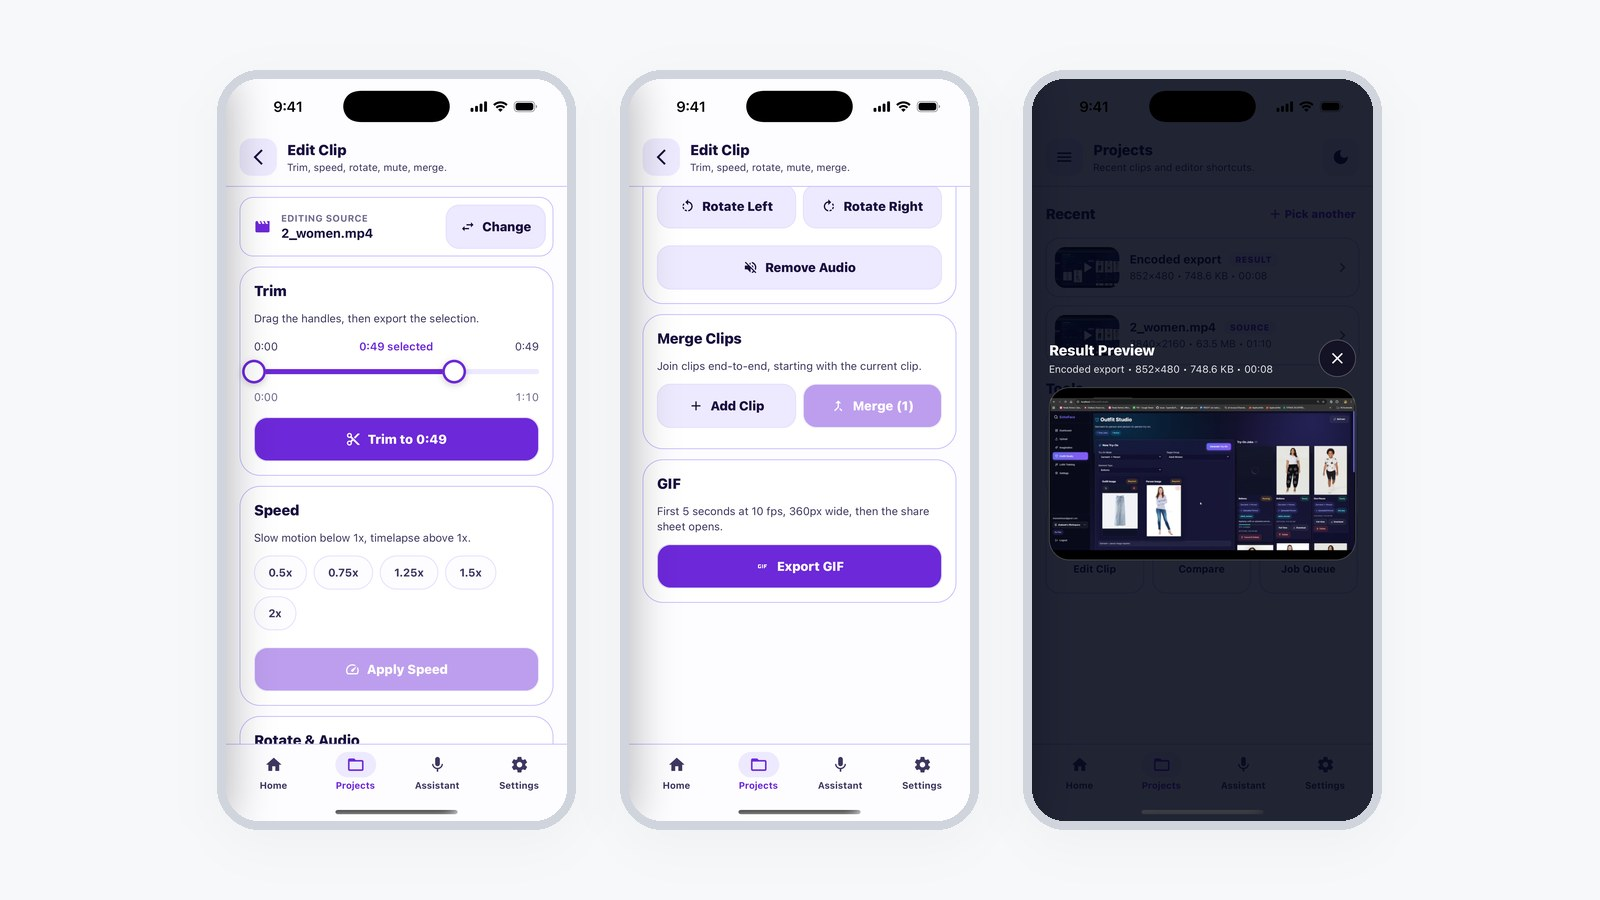
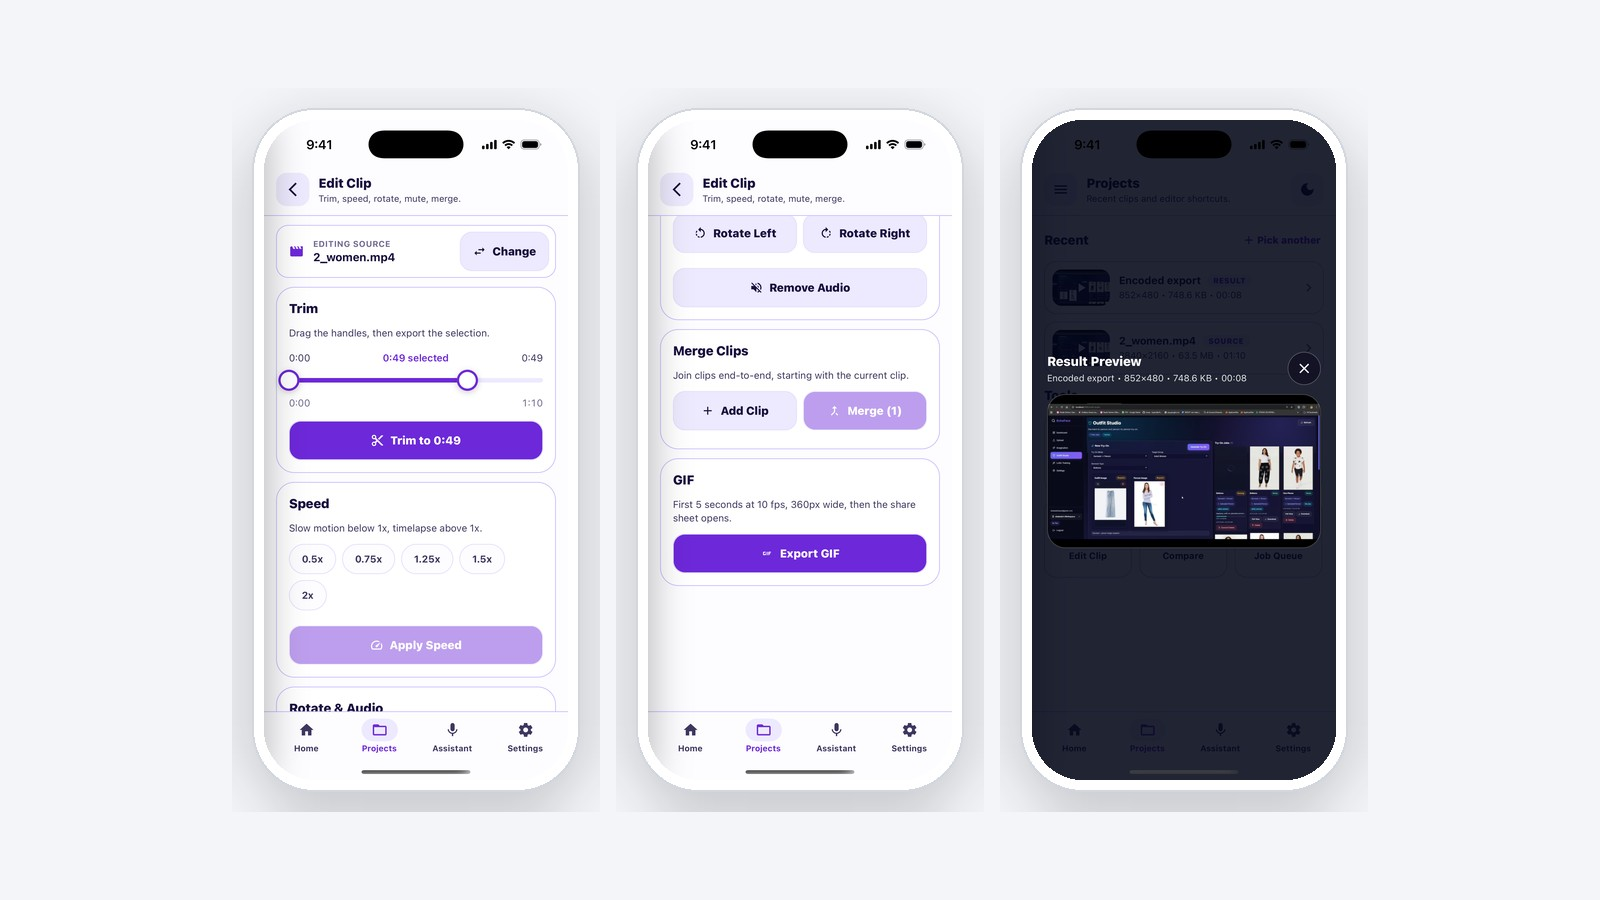
Replace video pipeline case study placeholder with real app screenshots
Swaps the generated SVG for screenshots of the shipped app and adds the
measured export figures the app reports itself, plus sections on the
interface and the platform limits that are documented in the module.

Changed region(s): [[0.125, 0.0622, 0.875, 0.9333]]

diff --git a/case-studies/on-device-video-compression-mobile-pipeline/index.html b/case-studies/on-device-video-compression-mobile-pipeline/index.html
@@ -10,7 +10,7 @@
   <meta property="og:description" content="Case study: a reusable React Native native module that compresses, trims, merges and edits video entirely on the phone across iOS and Android, with bitrate-accurate encoding and a documented platform-limitation matrix.">
   <meta property="og:type" content="article">
   <meta property="og:url" content="https://shabeeb.baydot.net/case-studies/on-device-video-compression-mobile-pipeline/">
-  <meta property="og:image" content="https://shabeeb.baydot.net/assets/imgs/generated/case-studies/on-device-video-compression-mobile-pipeline.svg">
+  <meta property="og:image" content="https://shabeeb.baydot.net/assets/imgs/case-studies/clip-studio/clip-studio-hero.jpg">
   <meta name="twitter:card" content="summary_large_image">
   <link rel="stylesheet" href="/assets/css/johndoe.css">
   <link rel="stylesheet" href="/assets/css/portfolio-refresh.css">
@@ -24,7 +24,7 @@
       "author": { "@type": "Person", "name": "Shabeeb Hasan", "url": "https://shabeeb.baydot.net/" },
       "publisher": { "@type": "Organization", "name": "Baydot", "url": "https://baydot.net/" },
       "mainEntityOfPage": "https://shabeeb.baydot.net/case-studies/on-device-video-compression-mobile-pipeline/",
-      "image": "https://shabeeb.baydot.net/assets/imgs/generated/case-studies/on-device-video-compression-mobile-pipeline.svg"
+      "image": "https://shabeeb.baydot.net/assets/imgs/case-studies/clip-studio/clip-studio-hero.jpg"
     }
   </script>
   <!-- Microsoft Clarity -->
@@ -46,7 +46,7 @@
     <a href="/case-studies/" class="back-link">Back to Case Studies</a>
     <h1 class="content-title">On-Device Video Compression Pipeline</h1>
     <p class="content-excerpt">Compressing video on the phone means no upload, no server bill, and no privacy conversation. It also means writing the pipeline twice, in Swift and Kotlin, behind one honest JavaScript API.</p>
-    <img src="/assets/imgs/generated/case-studies/on-device-video-compression-mobile-pipeline.svg" alt="On-Device Video Compression Pipeline" class="hero-image" width="1600" height="900">
+    <img src="/assets/imgs/case-studies/clip-studio/clip-studio-hero.jpg" alt="Baydot Clip Studio: dashboard, export result and export settings on iPhone" class="hero-image" width="1600" height="900">
     <div class="tag-row"><span>react native</span><span>native modules</span><span>video encoding</span><span>swift / kotlin</span><span>on-device processing</span></div>
     <article class="content-article">
       <h2>The Brief</h2>
@@ -61,18 +61,38 @@
         <li><strong>Text overlay</strong> with nine anchor positions, source and output metadata, native permission handling, and save-to-gallery on both platforms.</li>
       </ul>
 
+      <h2>What It Measures on a Real Export</h2>
+      <p>The app reports its own before-and-after, so the numbers below are readings rather than estimates. A 1.8&nbsp;MB
+      720p clip taken down to 480p HEVC lands at 748.6&nbsp;KB — and a 63.5&nbsp;MB 4K source is handled on the handset
+      without a server anywhere in the path.</p>
+      <img src="/assets/imgs/case-studies/clip-studio/clip-studio-export-flow.jpg" alt="Export settings with live size estimate, encoding progress with cancel, and the finished export reporting 59% size reduction" class="hero-image" width="1600" height="900" loading="lazy">
+      <p>Before the encode starts, a live estimate does the bitrate arithmetic; during it, progress is visible and
+      cancellable; after it, the result states exactly what changed. Codec choice is exposed rather than hidden —
+      HEVC for size, H.264 for compatibility, or the platform default.</p>
+
       <h2>Editing Without Re-Encoding</h2>
       <p>Trim, rotate, mute, merge and speed changes are all implemented as remux operations rather than re-encodes: the compressed streams are copied into a new container with adjusted timing or orientation metadata. The result is effectively instant and lossless, where a naive re-encode would cost minutes of battery and a generation of quality.</p>
       <div class="metric-grid">
-        <div class="metric"><strong>2 platforms</strong><span>iOS and Android behind one typed API</span></div>
-        <div class="metric"><strong>0</strong><span>Server cost, upload time, and files leaving the device</span></div>
-        <div class="metric"><strong>23</strong><span>Unit tests covering the compression surface</span></div>
-        <div class="metric"><strong>Remux</strong><span>Trim, merge, rotate and speed with no re-encode</span></div>
+        <div class="metric"><strong>59% smaller</strong><span>1.8 MB to 748.6 KB, measured on device</span></div>
+        <div class="metric"><strong>3840 &times; 2160</strong><span>4K source handled with no server in the path</span></div>
+        <div class="metric"><strong>0</strong><span>Server cost, upload time, and files leaving the phone</span></div>
+        <div class="metric"><strong>Remux</strong><span>Trim, rotate and mute with no re-encode</span></div>
       </div>
+      <img src="/assets/imgs/case-studies/clip-studio/clip-studio-editing.jpg" alt="Trim handles with live selection, rotate and merge tools with GIF export, and the preview player" class="hero-image" width="1600" height="900" loading="lazy">
 
       <h2>The Part Most Modules Skip: Documenting the Edges</h2>
-      <p>Cross-platform media work is full of asymmetries, and the failure mode is a module that pretends they do not exist until an app ships a bug. This one ships a platform support matrix instead: which calls behave identically, which differ, and exactly where. Text overlay sizing behaves differently on one encoder. Merging on Android requires matching codec and resolution. A speed change preserves audio on one platform and not the other. Every one of those is written down next to the API that has the limitation.</p>
+      <p>Cross-platform media work is full of asymmetries, and the failure mode is a module that pretends they do not exist until an app ships a bug. This one ships a platform support matrix instead: which calls behave identically, which differ, and exactly where. Text overlay sizing behaves differently on one encoder. Merging on Android requires matching codec and resolution. A speed change preserves audio on one platform and not the other. Every one of those is written down next to the API that has the limitation. GIF export is the sharpest example: iOS hands frames to ImageIO in a few lines, while Android has no equivalent at all, so that platform carries a hand-written GIF89a encoder — palette quantiser, LZW compressor and writer — to produce the same output.</p>
       <div class="cs-note"><p>A documented limitation is a feature. An undocumented one is a support ticket in three months, filed by someone who trusted the API signature.</p></div>
+
+      <h2>The Interface Around It</h2>
+      <p>Two complete themes built from one token set — designed, not inverted — with a shared component layer for
+      cards, chrome and controls. Every colour that sits on top of video comes from a dedicated on-media palette, so
+      captions stay legible over any frame. Preview posters use real decoded frames rather than placeholder art.</p>
+      <img src="/assets/imgs/case-studies/clip-studio/clip-studio-themes.jpg" alt="The same screens in light and dark themes" class="hero-image" width="1600" height="900" loading="lazy">
+      <p>Finished exports persist for seven days and survive a restart, with entries dropped automatically once their
+      file leaves the cache. An offline command surface accepts typed or spoken instructions — "compress this video",
+      "save to library" — parsed on the device.</p>
+      <img src="/assets/imgs/case-studies/clip-studio/clip-studio-workspace.jpg" alt="Navigation drawer, offline command assistant, and the projects screen" class="hero-image" width="1600" height="900" loading="lazy">
 
       <h2>Delivery</h2>
       <p>The module is packaged for reuse — it drops into another React Native or Expo project as a local dependency with an integration guide covering every exported function — and it has already been reused across more than one product. The app around it ships a themed light and dark interface, quality presets, live progress with cancel, before-and-after stats, and gallery export.</p>
